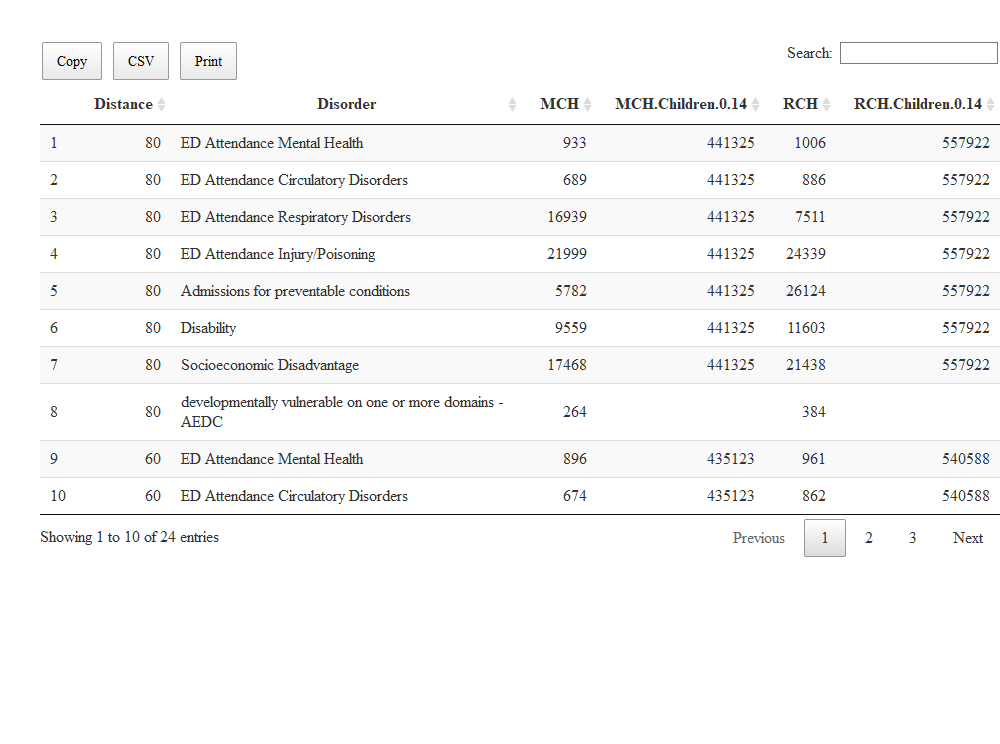
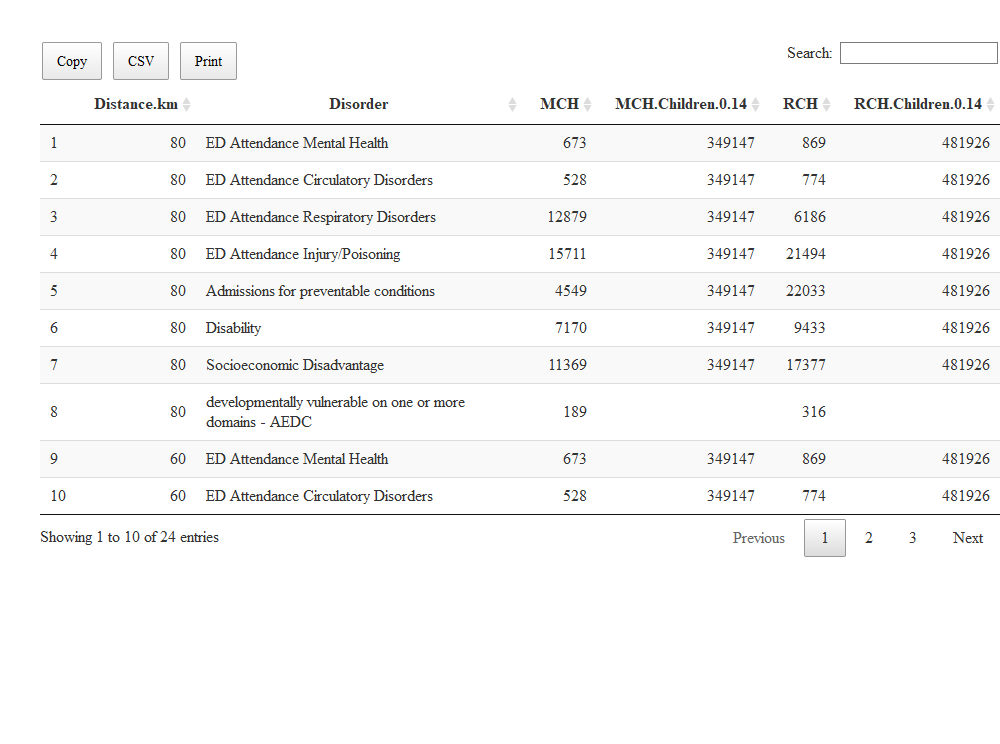
Add distance km

diff --git a/DT_DF.html b/DT_DF.html
@@ -2787,11 +2787,11 @@ padding-right: inherit;
 </head>
 <body style="background-color: white;">
 <div id="htmlwidget_container">
-<div id="htmlwidget-fea2d5d69119656c6924" class="datatables html-widget" style="width:960px;height:500px;">
+<div id="htmlwidget-ab75a0fccf17c1d09aa2" class="datatables html-widget" style="width:960px;height:500px;">
 
 </div>
 </div>
-<script type="application/json" data-for="htmlwidget-fea2d5d69119656c6924">{"x":{"filter":"none","extensions":["Buttons","KeyTable","Responsive"],"data":[["1","2","3","4","5","6","7","8","9","10","11","12","13","14","15","16","17","18","19","20","21","22","23","24"],[80,80,80,80,80,80,80,80,60,60,60,60,60,60,60,60,40,40,40,40,40,40,40,40],["ED Attendance Mental Health","ED Attendance Circulatory Disorders","ED Attendance Respiratory Disorders","ED Attendance Injury/Poisoning","Admissions for preventable conditions","Disability","Socioeconomic Disadvantage","developmentally vulnerable on one or more domains - AEDC","ED Attendance Mental Health","ED Attendance Circulatory Disorders","ED Attendance Respiratory Disorders","ED Attendance Injury/Poisoning","Admissions for preventable conditions","Disability","Socioeconomic Disadvantage","developmentally vulnerable on one or more domains - AEDC","ED Attendance Mental Health","ED Attendance Circulatory Disorders","ED Attendance Respiratory Disorders","ED Attendance Injury/Poisoning","Admissions for preventable conditions","Disability","Socioeconomic Disadvantage","developmentally vulnerable on one or more domains - AEDC"],[933,689,16939,21999,5782,9559,17468,264,896,674,16473,21481,5706,9431,15535,245,673,528,12879,15711,4549,7170,11369,189],[441325,441325,441325,441325,441325,441325,441325,null,435123,435123,435123,435123,435123,435123,435123,null,349147,349147,349147,349147,349147,349147,349147,null],[1006,886,7511,24339,26124,11603,21438,384,961,862,7287,23791,25284,11125,19431,353,869,774,6186,21494,22033,9433,17377,316],[557922,557922,557922,557922,557922,557922,557922,null,540588,540588,540588,540588,540588,540588,540588,null,481926,481926,481926,481926,481926,481926,481926,null]],"container":"<table class=\"display\">\n  <thead>\n    <tr>\n      <th> <\/th>\n      <th>Distance<\/th>\n      <th>Disorder<\/th>\n      <th>MCH<\/th>\n      <th>MCH.Children.0.14<\/th>\n      <th>RCH<\/th>\n      <th>RCH.Children.0.14<\/th>\n    <\/tr>\n  <\/thead>\n<\/table>","options":{"dom":"Bfrtip","keys":true,"button":["copy","csv","excel","print","pdf"],"columnDefs":[{"className":"dt-right","targets":[1,3,4,5,6]},{"orderable":false,"targets":0}],"order":[],"autoWidth":false,"orderClasses":false,"responsive":true}},"evals":[],"jsHooks":[]}</script>
-<script type="application/htmlwidget-sizing" data-for="htmlwidget-fea2d5d69119656c6924">{"viewer":{"width":450,"height":350,"padding":15,"fill":true},"browser":{"width":960,"height":500,"padding":40,"fill":false}}</script>
+<script type="application/json" data-for="htmlwidget-ab75a0fccf17c1d09aa2">{"x":{"filter":"none","extensions":["Buttons","KeyTable","Responsive"],"data":[["1","2","3","4","5","6","7","8","9","10","11","12","13","14","15","16","17","18","19","20","21","22","23","24"],[80,80,80,80,80,80,80,80,60,60,60,60,60,60,60,60,40,40,40,40,40,40,40,40],["ED Attendance Mental Health","ED Attendance Circulatory Disorders","ED Attendance Respiratory Disorders","ED Attendance Injury/Poisoning","Admissions for preventable conditions","Disability","Socioeconomic Disadvantage","developmentally vulnerable on one or more domains - AEDC","ED Attendance Mental Health","ED Attendance Circulatory Disorders","ED Attendance Respiratory Disorders","ED Attendance Injury/Poisoning","Admissions for preventable conditions","Disability","Socioeconomic Disadvantage","developmentally vulnerable on one or more domains - AEDC","ED Attendance Mental Health","ED Attendance Circulatory Disorders","ED Attendance Respiratory Disorders","ED Attendance Injury/Poisoning","Admissions for preventable conditions","Disability","Socioeconomic Disadvantage","developmentally vulnerable on one or more domains - AEDC"],[673,528,12879,15711,4549,7170,11369,189,673,528,12879,15711,4549,7170,11369,189,673,528,12879,15711,4549,7170,11369,189],[349147,349147,349147,349147,349147,349147,349147,null,349147,349147,349147,349147,349147,349147,349147,null,349147,349147,349147,349147,349147,349147,349147,null],[869,774,6186,21494,22033,9433,17377,316,869,774,6186,21494,22033,9433,17377,316,869,774,6186,21494,22033,9433,17377,316],[481926,481926,481926,481926,481926,481926,481926,null,481926,481926,481926,481926,481926,481926,481926,null,481926,481926,481926,481926,481926,481926,481926,null]],"container":"<table class=\"display\">\n  <thead>\n    <tr>\n      <th> <\/th>\n      <th>Distance.km<\/th>\n      <th>Disorder<\/th>\n      <th>MCH<\/th>\n      <th>MCH.Children.0.14<\/th>\n      <th>RCH<\/th>\n      <th>RCH.Children.0.14<\/th>\n    <\/tr>\n  <\/thead>\n<\/table>","options":{"dom":"Bfrtip","keys":true,"button":["copy","csv","excel","print","pdf"],"columnDefs":[{"className":"dt-right","targets":[1,3,4,5,6]},{"orderable":false,"targets":0}],"order":[],"autoWidth":false,"orderClasses":false,"responsive":true}},"evals":[],"jsHooks":[]}</script>
+<script type="application/htmlwidget-sizing" data-for="htmlwidget-ab75a0fccf17c1d09aa2">{"viewer":{"width":450,"height":350,"padding":15,"fill":true},"browser":{"width":960,"height":500,"padding":40,"fill":false}}</script>
 </body>
 </html>
